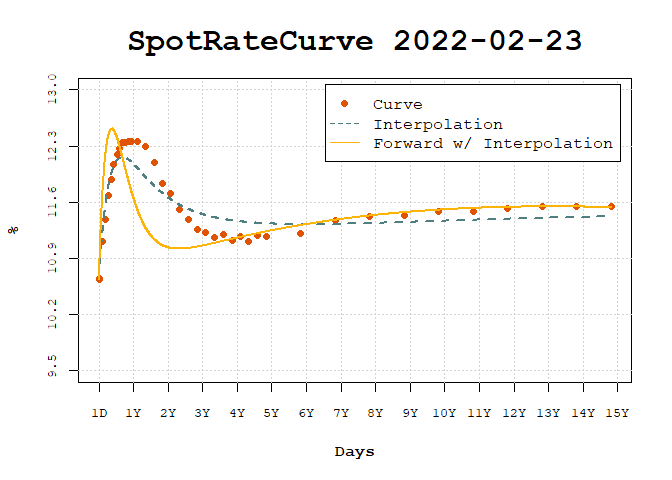
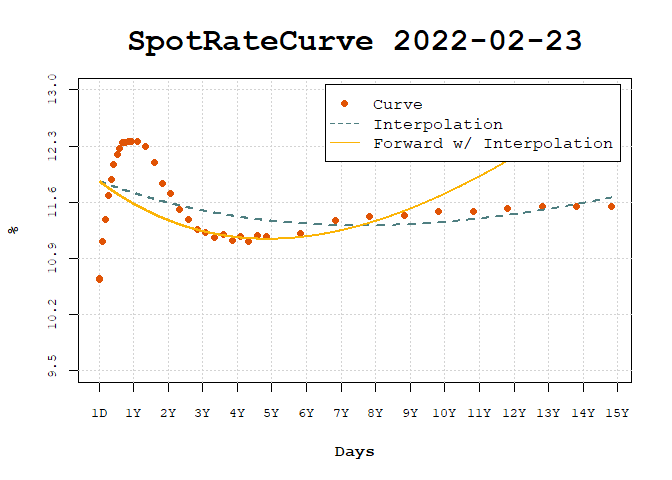
Updated README

Changed region(s): [[0.125, 0.25, 0.9062, 0.5312], [0.125, 0.4375, 0.1562, 0.5625], [0.7188, 0.3438, 0.75, 0.375]]

diff --git a/README.md b/README.md
@@ -1,3 +1,4 @@
+
 <!-- README.md is generated from README.Rmd. Please edit that file -->
 
 # fixedincome
@@ -25,13 +26,17 @@ with interest rates using `fixedincome`.
 
 You can install from CRAN with:
 
-    install.packages("fixedincome")
+``` r
+install.packages("fixedincome")
+```
 
 You can install the development version of fixedincome from
 [GitHub](https://github.com/) with:
 
-    # install.packages("devtools")
-    devtools::install_github("wilsonfreitas/R-fixedincome")
+``` r
+# install.packages("devtools")
+devtools::install_github("wilsonfreitas/R-fixedincome")
+```
 
 ## Examples
 
@@ -57,148 +62,176 @@ restriction can be reviewed in the future.
 Given that let’s declare an annual spot rate with a `simple`
 compounding, an `actual/360` and the `actual` calendar.
 
-    library(fixedincome)
-    sr <- spotrate(0.06, "simple", "actual/360", "actual")
-    sr
-    #> [1] "0.06 simple actual/360 actual"
+``` r
+library(fixedincome)
+sr <- spotrate(0.06, "simple", "actual/360", "actual")
+sr
+#> [1] "0.06 simple actual/360 actual"
+```
 
 Compound the spot rate for 7 months.
 
-    compound(sr, 7, "months")
-    #> [1] 1.035
+``` r
+compound(sr, 7, "months")
+#> [1] 1.035
+```
 
 Also compound using dates.
 
-    compound(sr, as.Date("2022-02-23"), as.Date("2022-12-28"))
-    #> [1] 1.051333
+``` r
+compound(sr, as.Date("2022-02-23"), as.Date("2022-12-28"))
+#> [1] 1.051333
+```
 
 Spot rates can be put inside data.frames.
 
-    library(dplyr)
-    library(fixedincome)
+``` r
+library(dplyr)
+library(fixedincome)
 
-    df <- tibble(
-      rate = spotrate(rep(10.56 / 100, 5),
-        compounding = "discrete",
-        daycount = "business/252",
-        calendar = "Brazil/ANBIMA"
-      ),
-      terms = term(1:5, "years")
-    )
+df <- tibble(
+  rate = spotrate(rep(10.56 / 100, 5),
+    compounding = "discrete",
+    daycount = "business/252",
+    calendar = "Brazil/ANBIMA"
+  ),
+  terms = term(1:5, "years")
+)
 
-    df
-    #> # A tibble: 5 x 2
-    #>   rate                                       terms  
-    #>   <SpotRate>                                 <Term> 
-    #> 1 0.1056 discrete business/252 Brazil/ANBIMA 1 year 
-    #> 2 0.1056 discrete business/252 Brazil/ANBIMA 2 years
-    #> 3 0.1056 discrete business/252 Brazil/ANBIMA 3 years
-    #> 4 0.1056 discrete business/252 Brazil/ANBIMA 4 years
-    #> 5 0.1056 discrete business/252 Brazil/ANBIMA 5 years
+df
+#> # A tibble: 5 x 2
+#>   rate                                       terms  
+#>   <SpotRate>                                 <Term> 
+#> 1 0.1056 discrete business/252 Brazil/ANBIMA 1 year 
+#> 2 0.1056 discrete business/252 Brazil/ANBIMA 2 years
+#> 3 0.1056 discrete business/252 Brazil/ANBIMA 3 years
+#> 4 0.1056 discrete business/252 Brazil/ANBIMA 4 years
+#> 5 0.1056 discrete business/252 Brazil/ANBIMA 5 years
+```
 
 The tidyverse verbs can be easily used with `SpotRate` and `Term`
 classes.
 
-    df |> mutate(fact = compound(rate, terms))
-    #> # A tibble: 5 x 3
-    #>   rate                                       terms    fact
-    #>   <SpotRate>                                 <Term>  <dbl>
-    #> 1 0.1056 discrete business/252 Brazil/ANBIMA 1 year   1.11
-    #> 2 0.1056 discrete business/252 Brazil/ANBIMA 2 years  1.22
-    #> 3 0.1056 discrete business/252 Brazil/ANBIMA 3 years  1.35
-    #> 4 0.1056 discrete business/252 Brazil/ANBIMA 4 years  1.49
-    #> 5 0.1056 discrete business/252 Brazil/ANBIMA 5 years  1.65
+``` r
+df |> mutate(fact = compound(rate, terms))
+#> # A tibble: 5 x 3
+#>   rate                                       terms    fact
+#>   <SpotRate>                                 <Term>  <dbl>
+#> 1 0.1056 discrete business/252 Brazil/ANBIMA 1 year   1.11
+#> 2 0.1056 discrete business/252 Brazil/ANBIMA 2 years  1.22
+#> 3 0.1056 discrete business/252 Brazil/ANBIMA 3 years  1.35
+#> 4 0.1056 discrete business/252 Brazil/ANBIMA 4 years  1.49
+#> 5 0.1056 discrete business/252 Brazil/ANBIMA 5 years  1.65
+```
 
 ### Spot rate curves
 
 Let’s create a spot rate curve using web scraping (from B3 website)
 
-    source("examples/utils-functions.R")
-    curve <- get_curve_from_web("2022-02-23")
-    curve
-    #>          SpotRateCurve
-    #> 1 day           0.1065
-    #> 3 days          0.1064
-    #> 25 days         0.1111
-    #> 44 days         0.1138
-    #> 66 days         0.1168
-    #> 87 days         0.1189
-    #> 108 days        0.1207
-    #> 131 days        0.1220
-    #> 152 days        0.1227
-    #> 172 days        0.1235
-    #> # ... with 29 more rows
-    #> discrete business/252 Brazil/ANBIMA 
-    #> Reference date: 2022-02-23
+``` r
+source("examples/utils-functions.R")
+curve <- get_curve_from_web("2022-02-23")
+curve
+#>          SpotRateCurve
+#> 1 day           0.1065
+#> 3 days          0.1064
+#> 25 days         0.1111
+#> 44 days         0.1138
+#> 66 days         0.1168
+#> 87 days         0.1189
+#> 108 days        0.1207
+#> 131 days        0.1220
+#> 152 days        0.1227
+#> 172 days        0.1235
+#> # ... with 29 more rows
+#> discrete business/252 Brazil/ANBIMA 
+#> Reference date: 2022-02-23
+```
 
 `SpotRateCurve` plots can be easily done by calling `plot`.
 
-    plot(curve)
+``` r
+plot(curve)
+```
 
 <img src="man/figures/README-unnamed-chunk-10-1.png" width="100%" />
 
 For another date.
 
-    curve <- get_curve_from_web("2011-02-23")
-    plot(curve)
+``` r
+curve <- get_curve_from_web("2011-02-23")
+plot(curve)
+```
 
 <img src="man/figures/README-unnamed-chunk-11-1.png" width="100%" />
 
 It can show the forward rates for the short term by selecting the first
 two years.
 
-    curve <- get_curve_from_web("2022-02-23")
-    plot(fixedincome::first(curve, "2 years"), show_forward = TRUE)
+``` r
+curve <- get_curve_from_web("2022-02-23")
+plot(fixedincome::first(curve, "2 years"), show_forward = TRUE)
+```
 
 <img src="man/figures/README-unnamed-chunk-12-1.png" width="100%" />
 
 Once interpolation is set, it can be used in the plot.
 
-    interpolation(curve) <- interp_flatforward()
-    plot(
-      fixedincome::first(curve, "2 years"),
-      use_interpolation = TRUE, legend_location = "bottomright"
-    )
+``` r
+interpolation(curve) <- interp_flatforward()
+plot(
+  fixedincome::first(curve, "2 years"),
+  use_interpolation = TRUE, legend_location = "bottomright"
+)
+```
 
 <img src="man/figures/README-unnamed-chunk-13-1.png" width="100%" />
 
 Parametric models like the Nelson-Siegel-Svensson model can be fitted to
 the curve.
 
-    interpolation(curve) <- fit_interpolation(
-      interp_nelsonsiegelsvensson(0.01, 0.01, 0.01, 0.01, 0.01, 0.01), curve
-    )
+``` r
+interpolation(curve) <- fit_interpolation(
+  interp_nelsonsiegelsvensson(0.01, 0.01, 0.01, 0.01, 0.01, 0.01), curve
+)
 
-    interpolation(curve)
-    #> <Interpolation: nelsonsiegelsvensson > 
-    #>  Parameters:
-    #>   beta1   beta2   beta3   beta4 lambda1 lambda2 
-    #> 0.09283 0.01325 0.04613 0.05007 0.00022 0.01092
+interpolation(curve)
+#> <Interpolation: nelsonsiegelsvensson > 
+#>  Parameters:
+#>   beta1   beta2   beta3   beta4 lambda1 lambda2 
+#>   0.300  -0.181  -0.858   0.611   0.053   0.054
+```
 
 Once set to the curve it is used in the plot to show daily forward
 rates.
 
-    plot(curve, use_interpolation = TRUE, show_forward = TRUE)
+``` r
+plot(curve, use_interpolation = TRUE, show_forward = TRUE)
+```
 
 <img src="man/figures/README-unnamed-chunk-15-1.png" width="100%" />
 
 The interpolation can be changed in order to compare different
 interpolations and the effects in forward rates.
 
-    interpolation(curve) <- interp_flatforward()
-    plot(
-      curve,
-      use_interpolation = TRUE, show_forward = TRUE,
-      legend_location = "bottomright"
-    )
+``` r
+interpolation(curve) <- interp_flatforward()
+plot(
+  curve,
+  use_interpolation = TRUE, show_forward = TRUE,
+  legend_location = "bottomright"
+)
+```
 
 <img src="man/figures/README-unnamed-chunk-16-1.png" width="100%" />
 
 Interpolation enables the creation of standardized curves, commonly used
 in risk management to build risk factors.
 
-    risk_terms <- c(1, c(3, 6, 9) * 21, c(1, 5, 10) * 252)
-    risk_curve <- curve[[risk_terms]]
-    plot(risk_curve, use_interpolation = TRUE)
+``` r
+risk_terms <- c(1, c(3, 6, 9) * 21, c(1, 5, 10) * 252)
+risk_curve <- curve[[risk_terms]]
+plot(risk_curve, use_interpolation = TRUE)
+```
 
 <img src="man/figures/README-unnamed-chunk-17-1.png" width="100%" />
